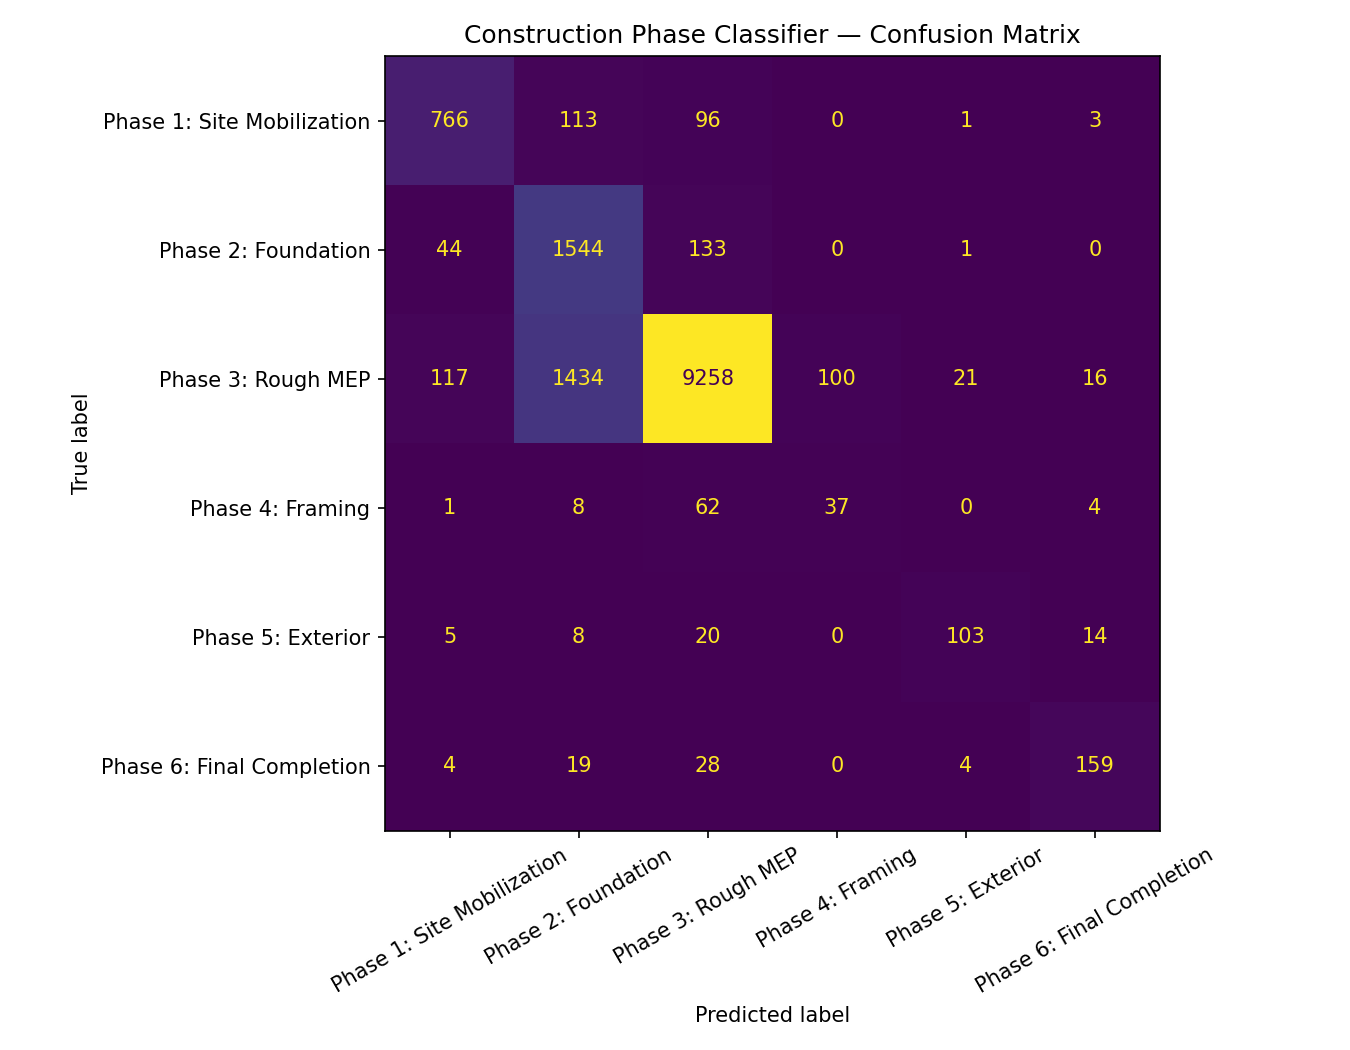
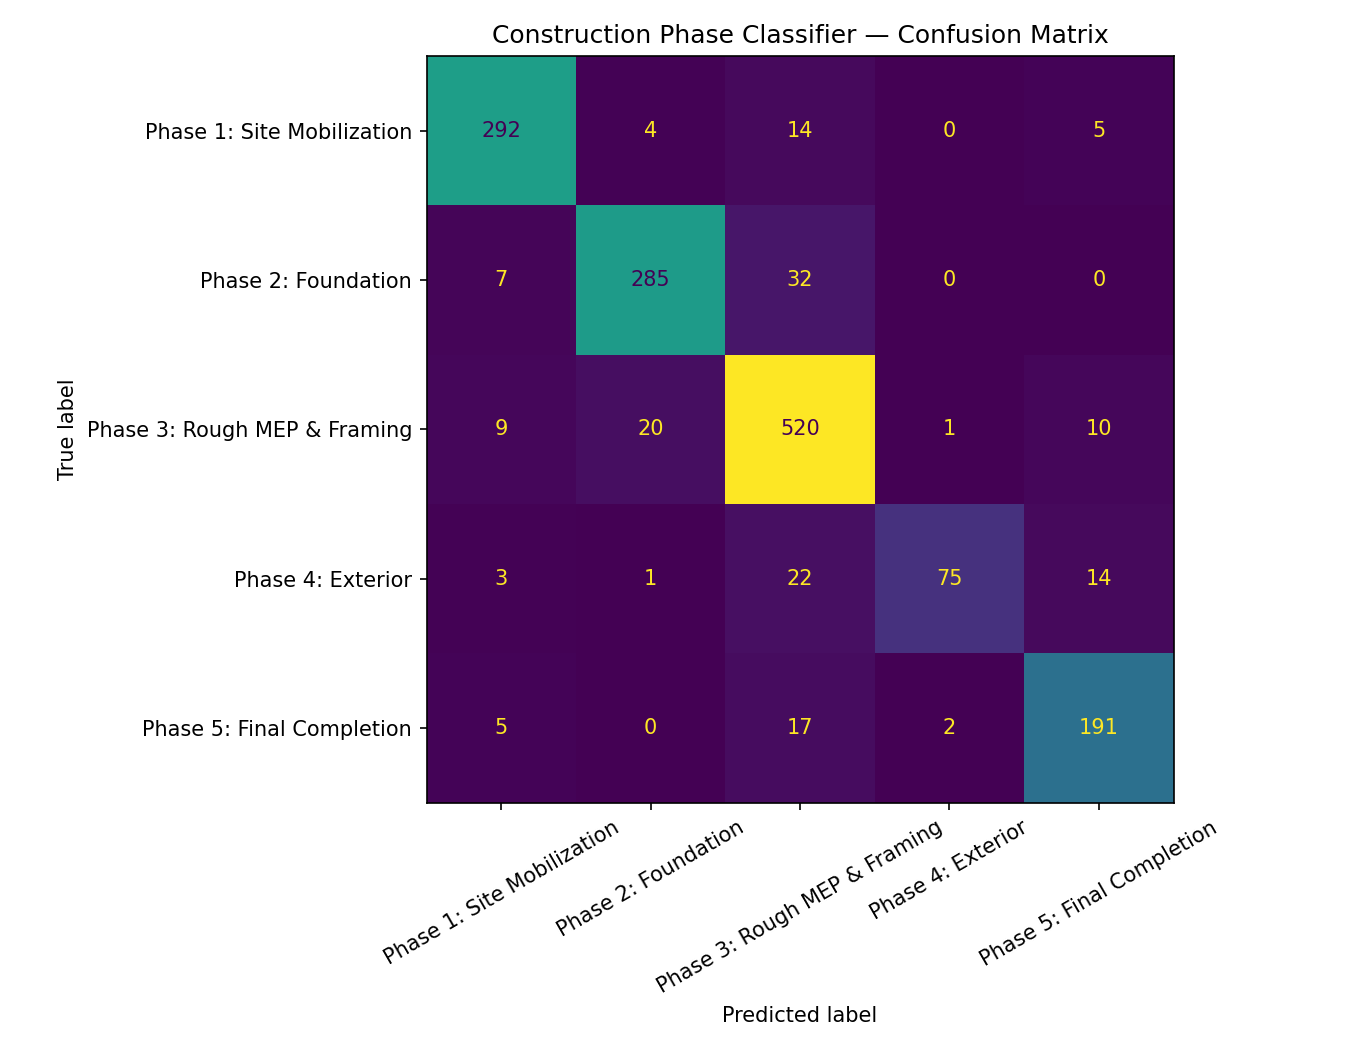
feat(classifier): retrain on clean construction data, merge MEP+Framing phase
- Training now filtered to Construction Timeline + Construction Phase paths only
  (removes personal photo contamination from previous model)
- Merged Phase 3 Rough MEP + Phase 4 Framing into single phase — done in tandem
  on site; classifier could not learn a visual boundary between them
- Foundation training examples: 18 -> 1,617 after force_relocate crawl
- Model accuracy: 84% -> 89%, all 5 phases have solid precision/recall
- Updated frontend SearchBar dropdown to reflect 5-phase structure

diff --git a/frontend/components/SearchBar.tsx b/frontend/components/SearchBar.tsx
@@ -379,10 +379,9 @@ export default function SearchBar({ onSearch, isLoading = false, suggestions, ex
               <option value="">Any</option>
               <option value="Phase 1: Site Mobilization">Phase 1: Site Mobilization</option>
               <option value="Phase 2: Foundation">Phase 2: Foundation</option>
-              <option value="Phase 3: Rough MEP">Phase 3: Rough MEP</option>
-              <option value="Phase 4: Framing">Phase 4: Framing</option>
-              <option value="Phase 5: Exterior">Phase 5: Exterior</option>
-              <option value="Phase 6: Final Completion">Phase 6: Final Completion</option>
+              <option value="Phase 3: Rough MEP & Framing">Phase 3: Rough MEP &amp; Framing</option>
+              <option value="Phase 4: Exterior">Phase 4: Exterior</option>
+              <option value="Phase 5: Final Completion">Phase 5: Final Completion</option>
             </select>
           </div>
 

diff --git a/scripts/train_phase_classifier.py b/scripts/train_phase_classifier.py
@@ -25,6 +25,7 @@ import matplotlib.pyplot as plt
 import numpy as np
 import pandas as pd
 from qdrant_client import QdrantClient
+from qdrant_client.models import Filter, FieldCondition, MatchText
 from sklearn.ensemble import RandomForestClassifier
 from sklearn.metrics import classification_report, confusion_matrix, ConfusionMatrixDisplay
 from sklearn.model_selection import train_test_split
@@ -43,12 +44,11 @@ CONFIDENCE_THRESHOLD = 0.85
 # Dates are inspection/completion dates = END of each phase.
 # Phase 3/4 overlap: both trades on-site simultaneously Feb 12–19 2026.
 PHASE_WINDOWS = [
-    ("Phase 1: Site Mobilization", "2025-09-01", "2025-10-08"),
-    ("Phase 2: Foundation",        "2025-10-09", "2025-11-06"),
-    ("Phase 3: Rough MEP",         "2025-11-07", "2026-02-19"),  # extended through framing overlap
-    ("Phase 4: Framing",           "2026-02-12", "2026-02-19"),  # overlaps Phase 3
-    ("Phase 5: Exterior",          "2026-02-20", "2026-03-02"),
-    ("Phase 6: Final Completion",  "2026-03-03", "2026-12-31"),
+    ("Phase 1: Site Mobilization",  "2025-09-01", "2025-10-08"),
+    ("Phase 2: Foundation",         "2025-10-09", "2025-11-06"),
+    ("Phase 3: Rough MEP & Framing","2025-11-07", "2026-02-19"),  # MEP + framing done in tandem
+    ("Phase 4: Exterior",           "2026-02-20", "2026-03-02"),
+    ("Phase 5: Final Completion",   "2026-03-03", "2026-12-31"),
 ]
 
 OUTPUT_DIR = Path(__file__).parent.parent / "models"
@@ -78,6 +78,14 @@ def _date_from_filename(file_path: str) -> pd.Timestamp | None:
 # ---------------------------------------------------------------------------
 def fetch_vectors(client: QdrantClient) -> pd.DataFrame:
     print(f"Connecting to Qdrant at {QDRANT_HOST}:{QDRANT_PORT} …")
+    # Only train on verified construction media — curated folders that contain
+    # nothing but construction photos/videos.  Pixel 9 monthly backups and other
+    # mixed folders are intentionally excluded; they will be classified later
+    # using the model trained here.
+    construction_filter = Filter(should=[
+        FieldCondition(key="file_path", match=MatchText(text="Construction Timeline")),
+        FieldCondition(key="file_path", match=MatchText(text="Construction Phase")),
+    ])
     rows = []
     offset = None
     batch = 0
@@ -85,6 +93,7 @@ def fetch_vectors(client: QdrantClient) -> pd.DataFrame:
     while True:
         records, next_offset = client.scroll(
             collection_name=COLLECTION_NAME,
+            scroll_filter=construction_filter,
             with_vectors=True,
             with_payload=True,
             limit=1000,